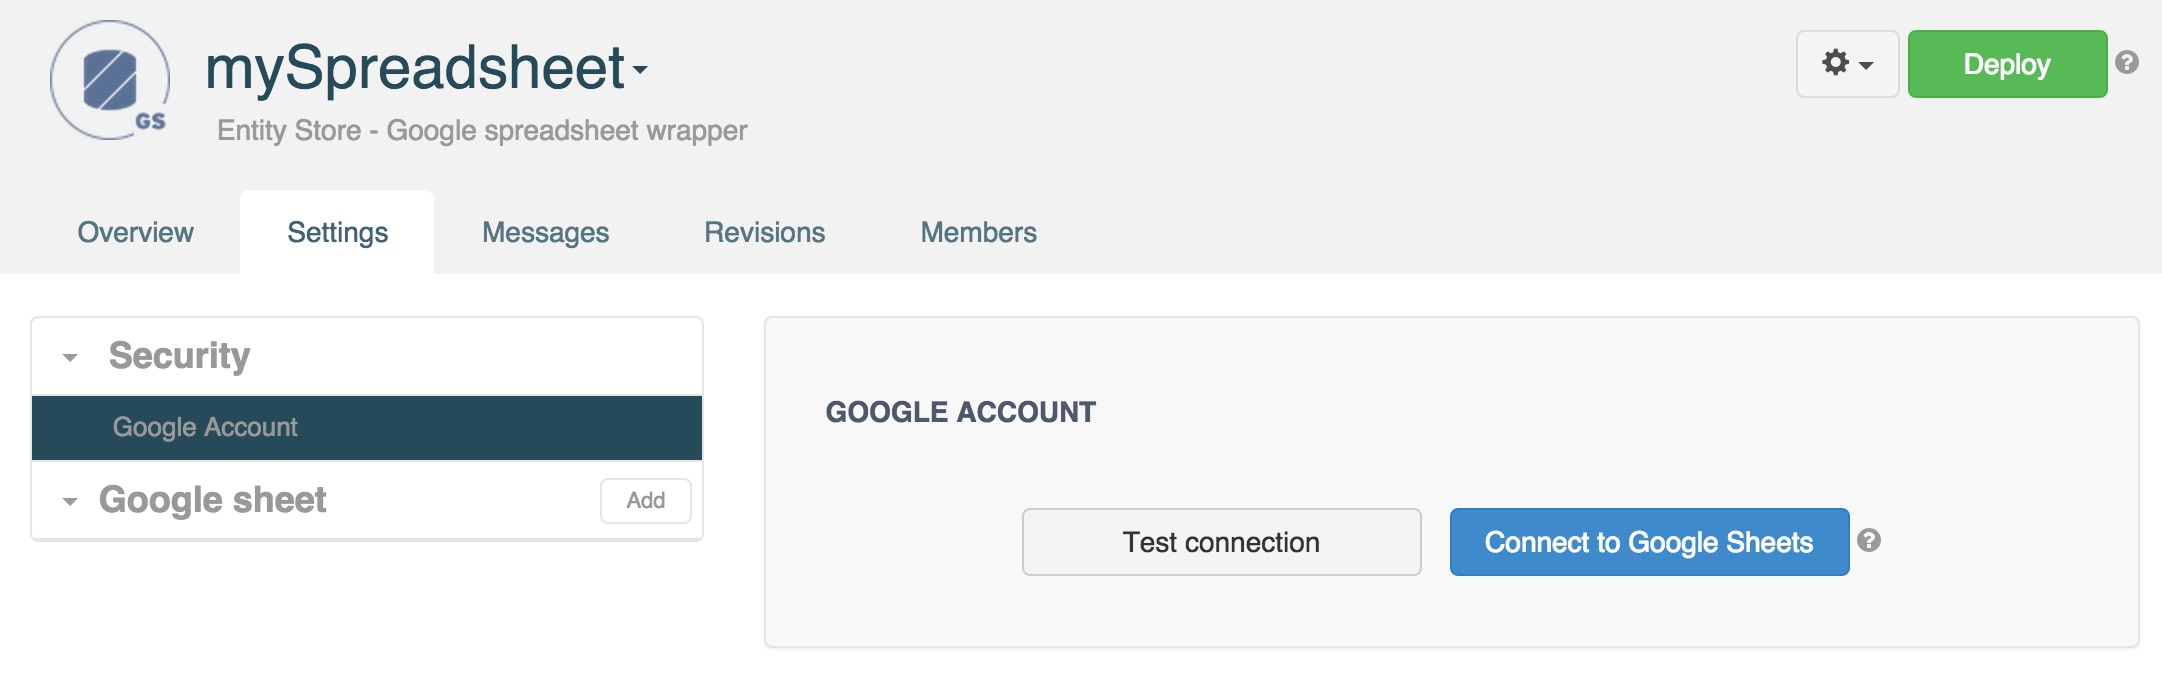
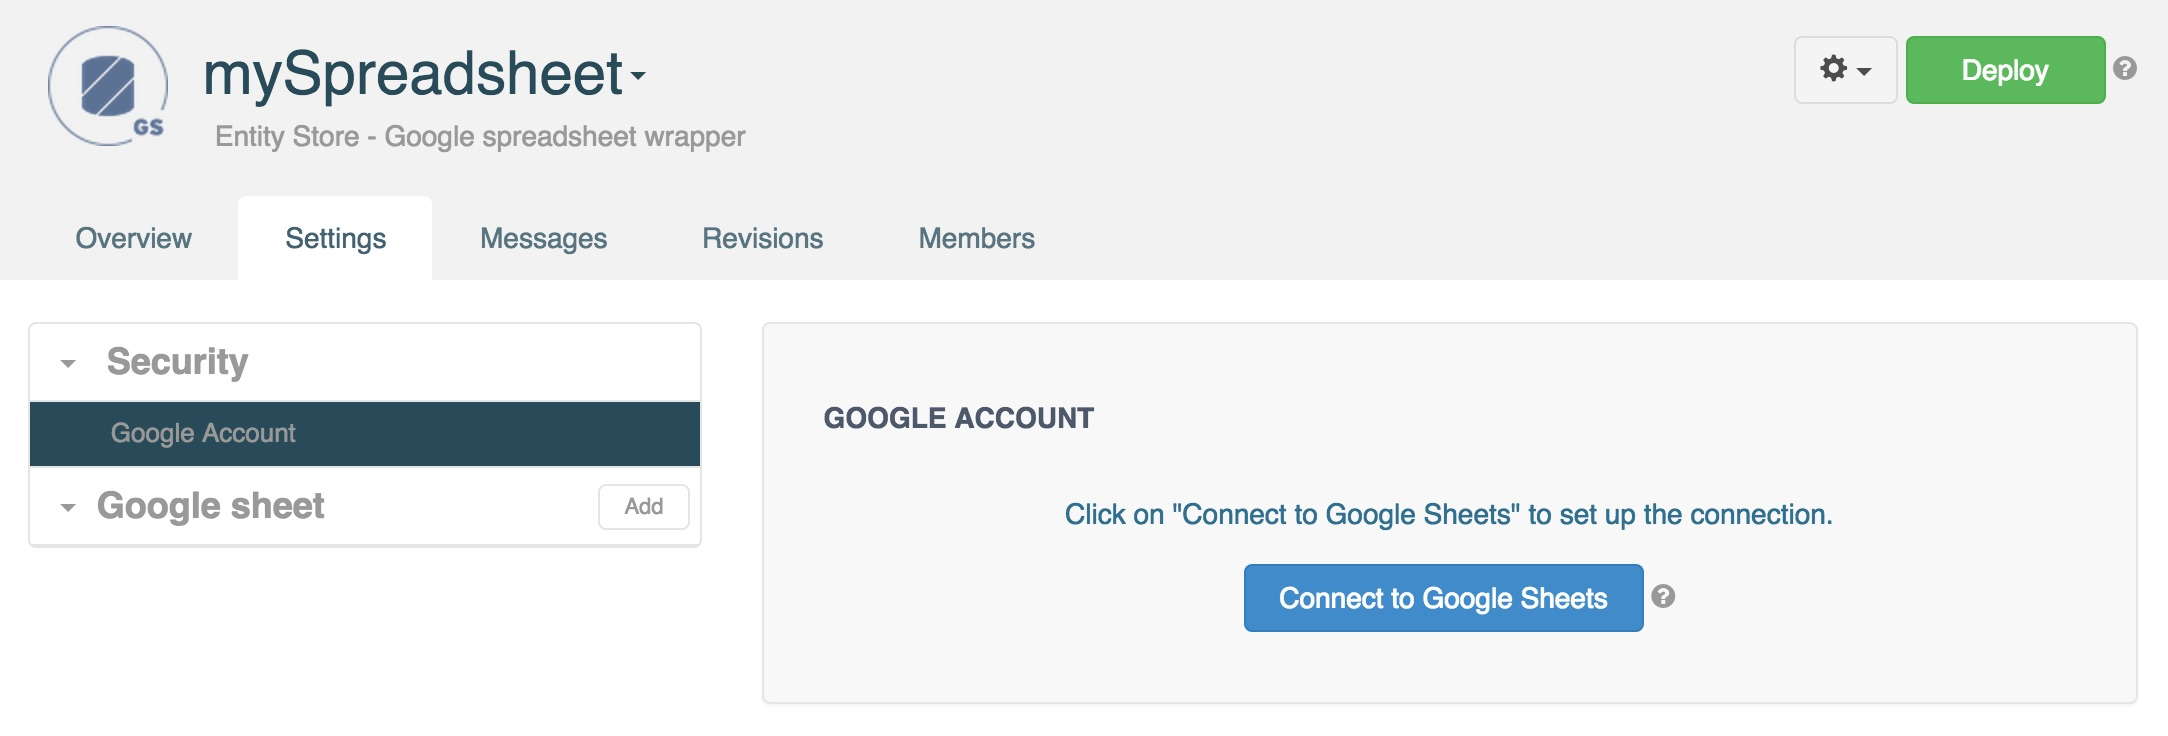
AS_Updated screenshots and content in Gsheet auto

diff --git a/modules/com.restlet/tech-doc/apispark/tutorials/03_turn-spreadsheet-to-api.md b/modules/com.restlet/tech-doc/apispark/tutorials/03_turn-spreadsheet-to-api.md
@@ -30,7 +30,7 @@ We have chosen to name ours Darth Vader, 46 years old.
 
 ![Google Spreadsheet](images/google-spreadsheet.jpg "Google Spreadsheet")
 
-# 2. Configure the Google Spreadsheet Wrapper
+# 2. Create the Google Spreadsheet Wrapper
 
 Sign in to your **APISpark** account.
 
@@ -42,17 +42,21 @@ Select **Google Spreadsheet wrapper** and enter a name for your store . We named
 
 Click **Add** to create the Wrapper. You will be taken to the Wrapper's **Settings** page.
 
-# 3. Connect to a Google Account
+<a name="connect-to-gsheets"></a>
+
+# 3. Connect to Google Sheets
 
 From the **Security** section, click on the **Google Account** menu.
 
 Click on the **Connect to Google Sheets** button to connect to your Google account. A **Google Accounts** window displays and invites you to choose the Google account to which you want to connect. Select the appropriate account and accept offline access if you are asked to.
 
-![Open authorization](images/connect-to-google-sheets.jpg "Open authorization")
+![Connect to Google Sheets](images/connect-to-google-sheets.jpg "Connect to Google Sheets")
 
-Click on the **Test connection** button, to ensure the connection between APISpark and your Google Account is well configured.
+A message informs you that the connection has been established.
 
-![Test connection](images/google-account-configured.jpg "Test connection")
+You can select another account later on by clicking the **Change Google account** button.
+
+![Change Google account](images/change-google-account.jpg "Change Google account")
 
 # 4. Import a Spreadsheet
 
